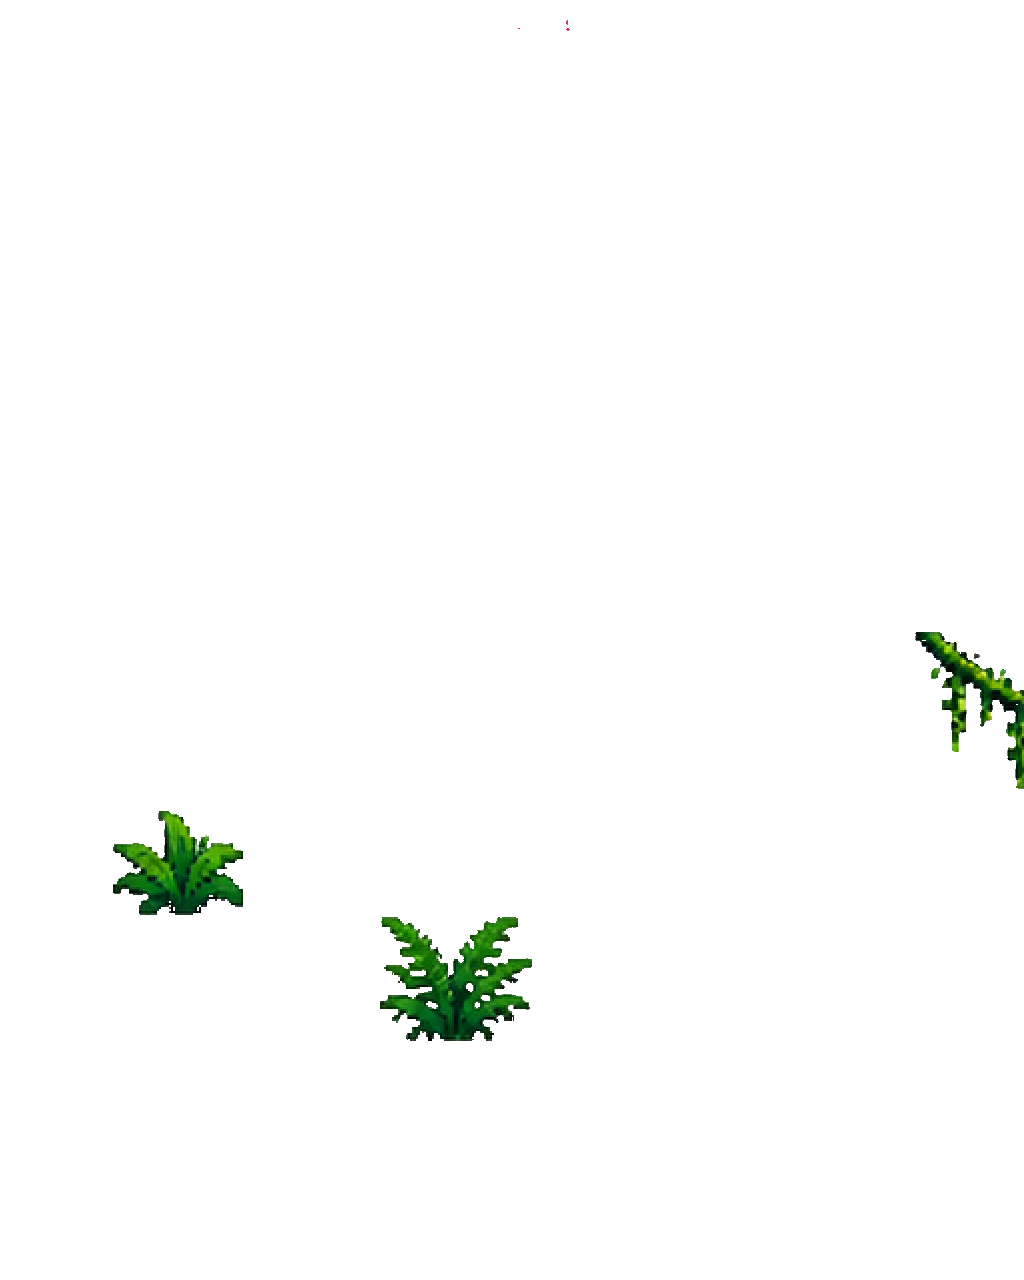
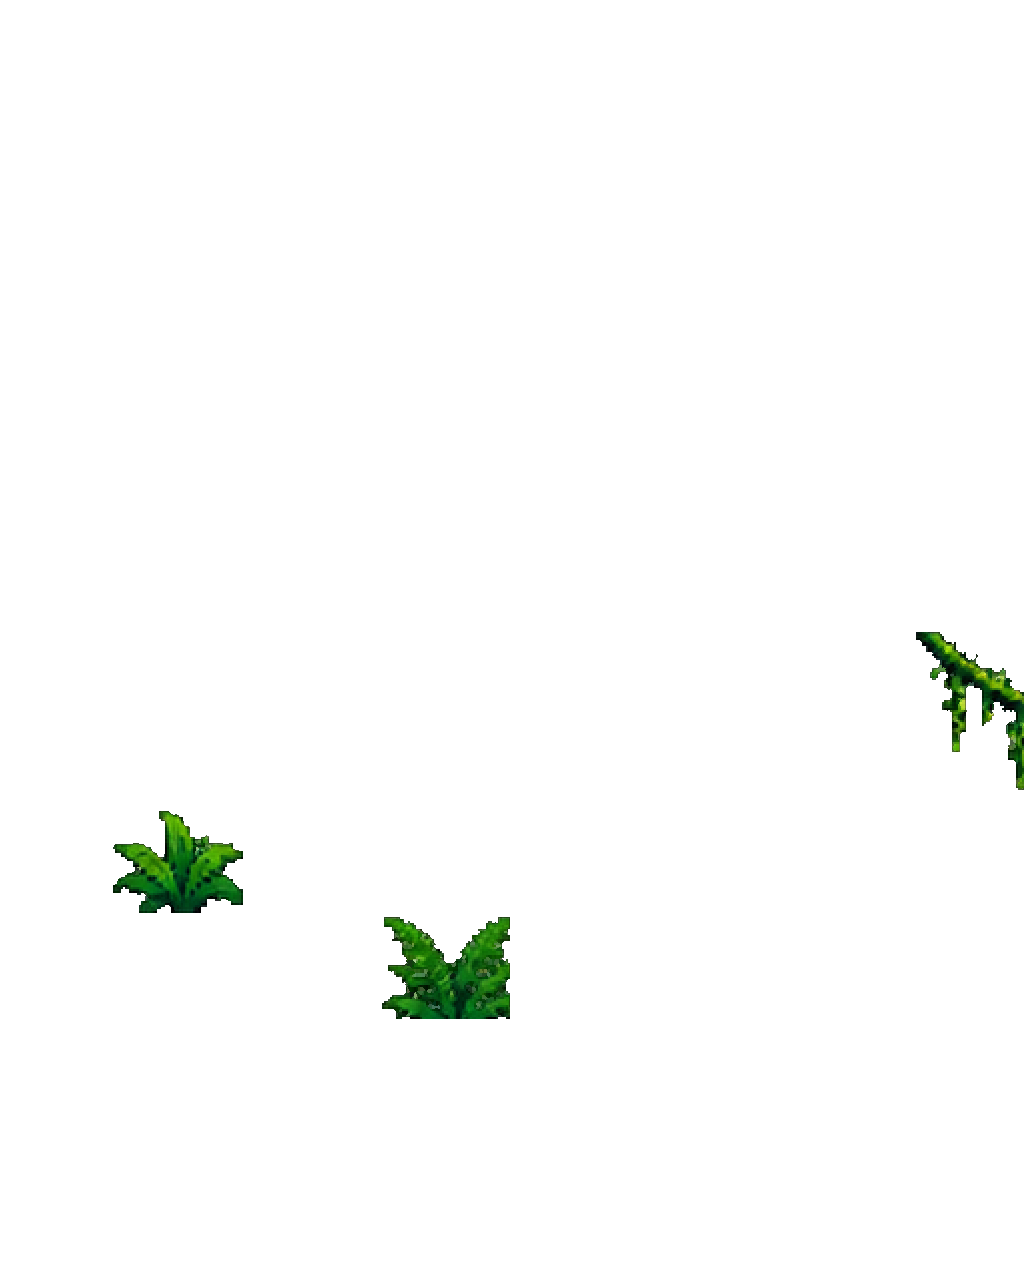
Dressing merged with the pack originals and cleaned; hidden doors out

Changed region(s): [[0.375, 0.7188, 0.5312, 0.8125], [0.9375, 0.5312, 0.9688, 0.5625], [0.9062, 0.5, 0.9375, 0.5312]]

diff --git a/designer/artist.js b/designer/artist.js
@@ -59,7 +59,8 @@ function cleanFringe(cv, passes = 2) {
         const b = a[i + 2];
         const lum = (r + gr + b) / 3;
         const sat = Math.max(r, gr, b) - Math.min(r, gr, b);
-        if (a[i + 3] < 250 || (lum > 130 && sat < 70) || (r > gr + 15 && lum > 110)) drop.push(i);
+        const washedGreen = sat < 40 && lum > 40 && gr >= r && gr >= b;   // a green blended with the paper
+        if (a[i + 3] < 250 || (lum > 130 && sat < 70) || (r > gr + 15 && lum > 110) || washedGreen) drop.push(i);
       }
     }
     drop.forEach((i) => { a[i + 3] = 0; });

diff --git a/src/scenes/Platformer.js b/src/scenes/Platformer.js
@@ -794,6 +794,8 @@ export class PlatformerScene extends Phaser.Scene {
     if (!keys.length) return;
     this.load.once('complete', () => {
       if (!this.sys.isActive()) return;
+      // Pixel art: sharp pixels, so edges never blend with see-through neighbours.
+      keys.forEach((k) => this.textures.exists(k) && this.textures.get(k).setFilter(Phaser.Textures.FilterMode.NEAREST));
       // The whole background at 1:1, then copies after it for as far as
       // the parallax needs.
       if (bgPieces.length) {
